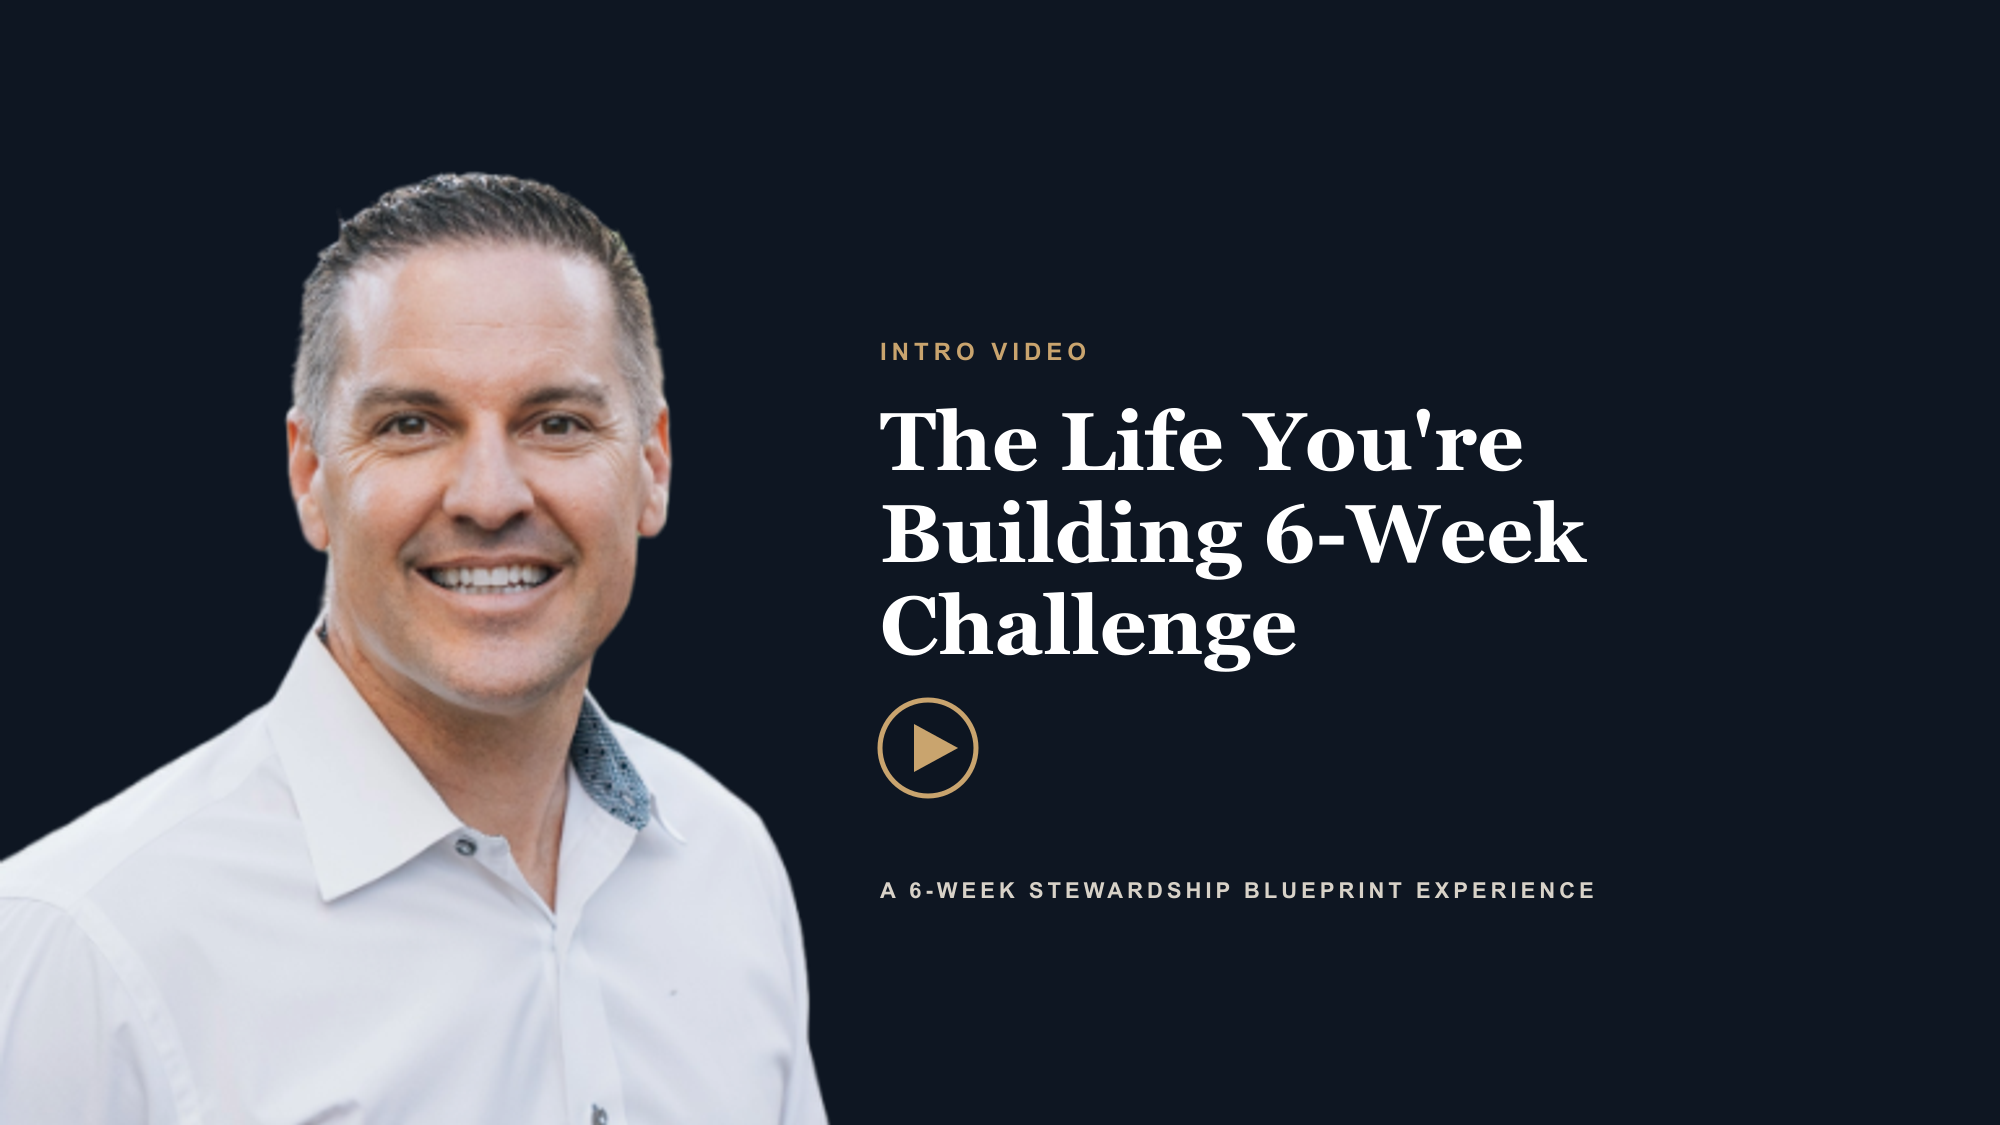
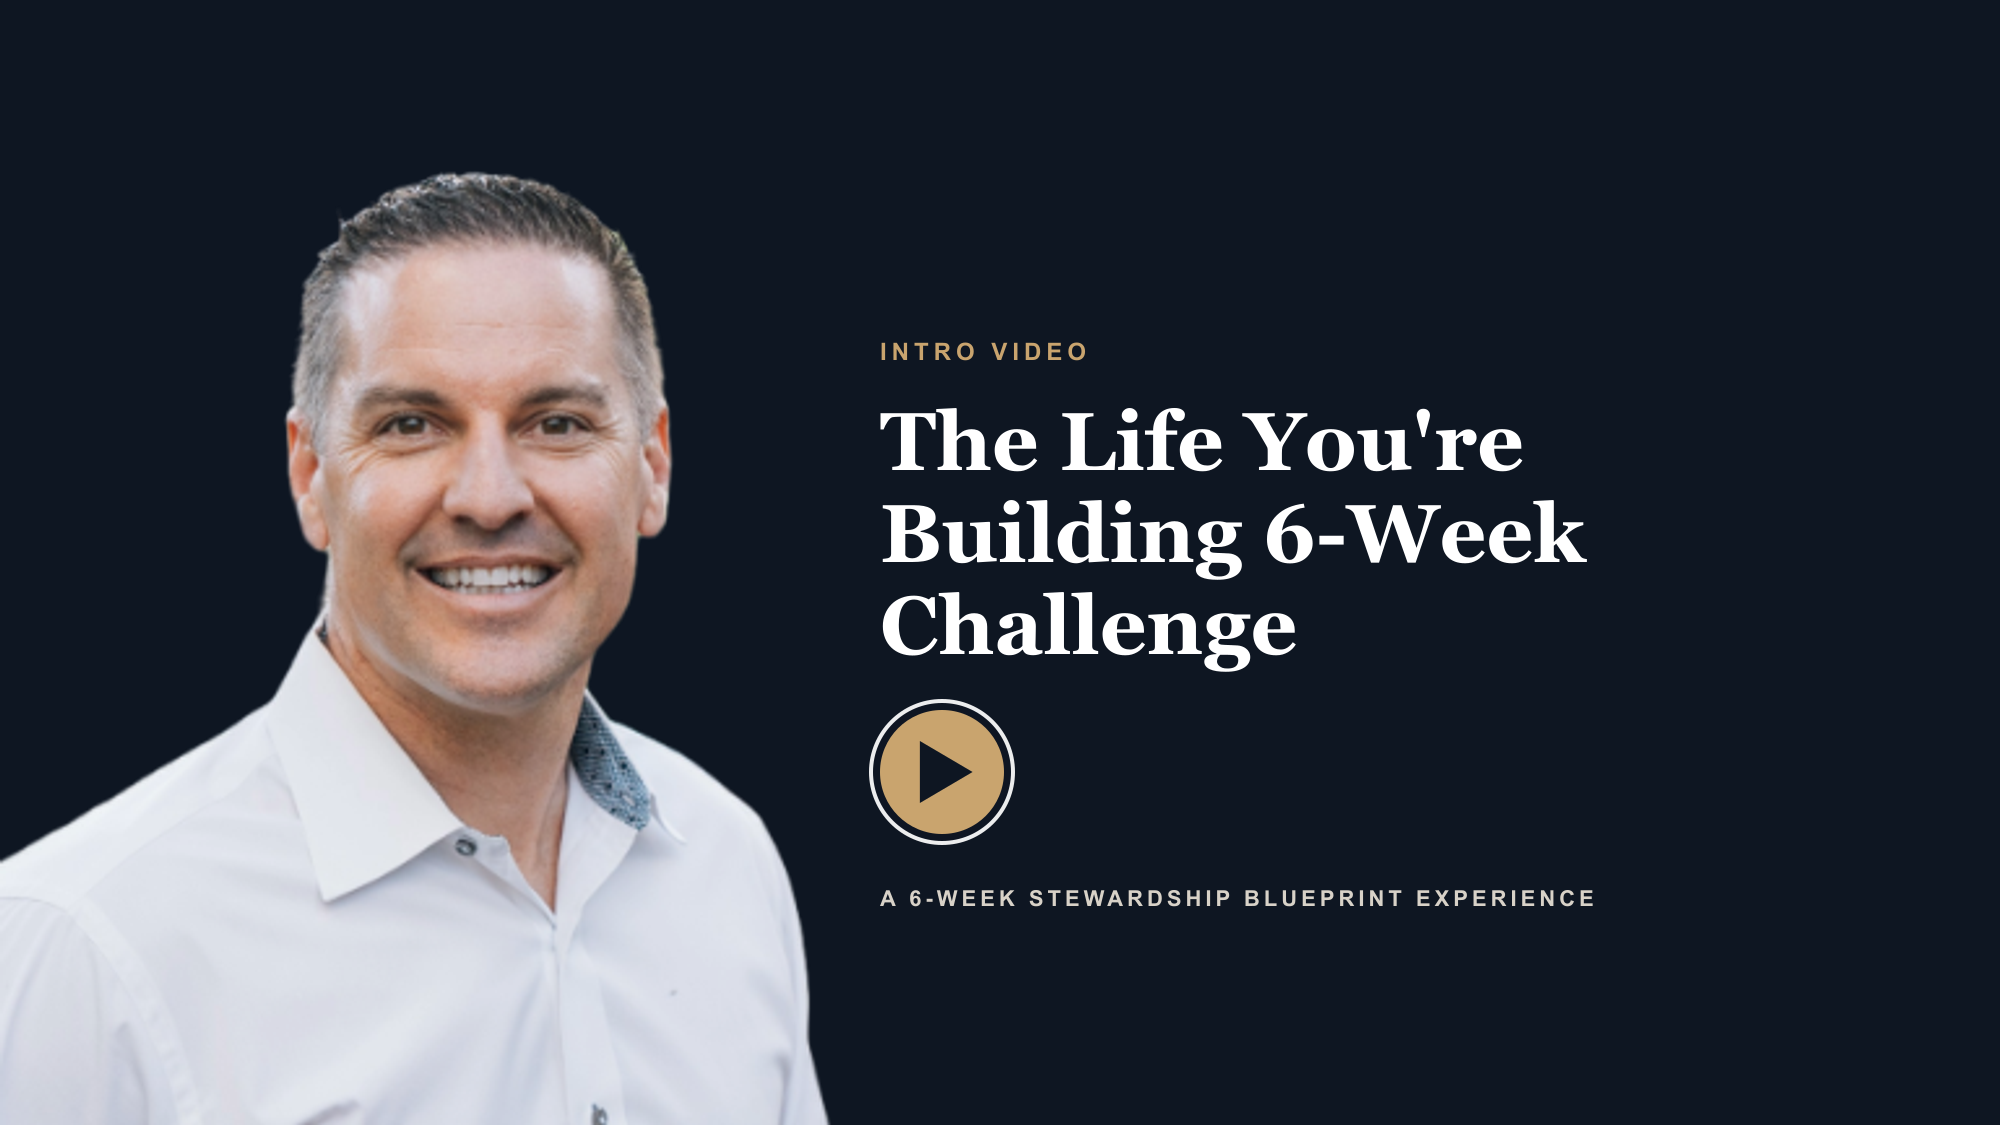
feat(6wc): invitation email — linked check-in bullet, bigger CTA + play button, new video
- Linked the "Created for More Check-In" bullet to /created-for-more-check-in.
- Enlarged the primary "Accept Your Invitation" CTA (padding 20x52, 19px) so it's
  more prominent (migration 202608180077).
- Rebuilt the email thumbnail with a larger, higher-contrast play button
  (solid gold + ink triangle + white ring).
- Updated the invitation video to the new Drive file (1p9eEwKjA8tQ408-35cwtB2qyCgrNe-CU)
  in lib/six-week-challenge/videos.ts — used by the video page the email links to.

Changed region(s): [[0.434, 0.7778, 0.806, 0.8089], [0.434, 0.6222, 0.527, 0.7467]]

diff --git a/lib/six-week-challenge/videos.ts b/lib/six-week-challenge/videos.ts
@@ -39,7 +39,7 @@ export const CHALLENGE_VIDEOS: ChallengeVideo[] = [
     description:
       "A short invitation to the 6-Week Challenge. Share this with any man you're inviting into the group — it makes the ask easy and helps him say yes.",
     youtubeId: null,
-    driveId: "1ANS8mbOmyR5C8NHVw1n0WksmLqHHC_Oj",
+    driveId: "1p9eEwKjA8tQ408-35cwtB2qyCgrNe-CU",
     embedDirect: true,
     videoUrl: null,
     posterEyebrow: "6-Week Challenge Introduction Video",
